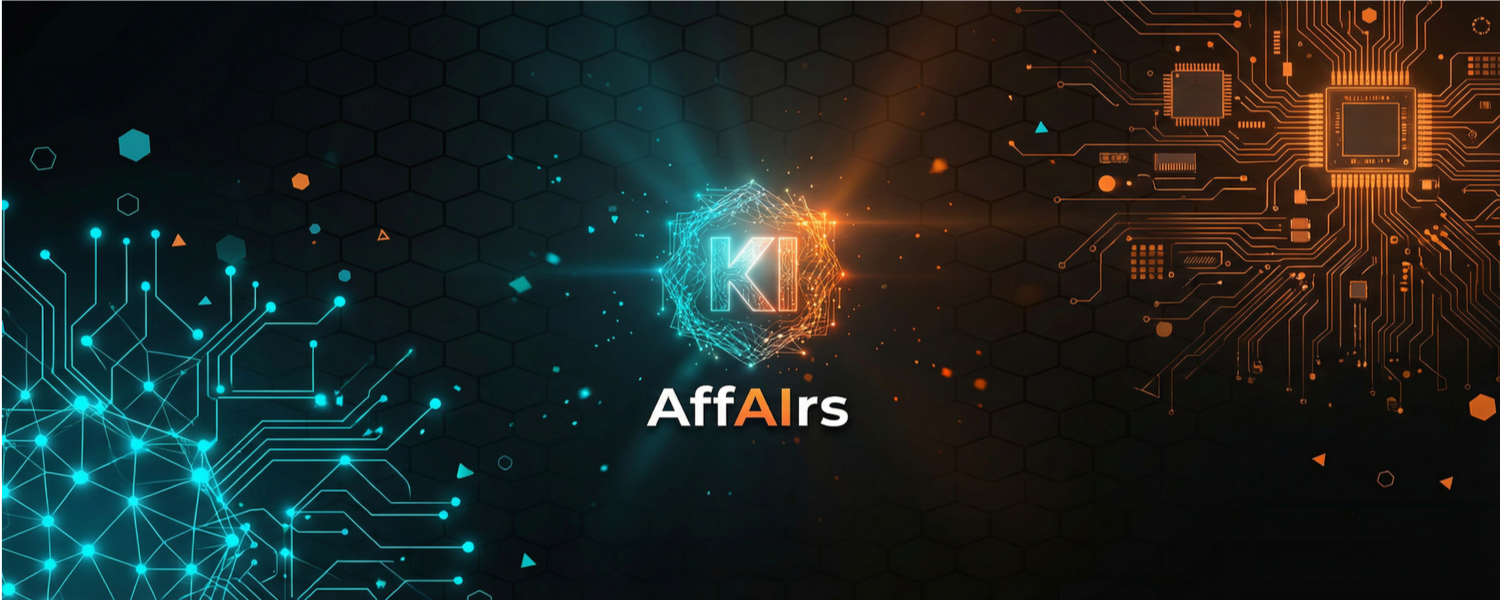
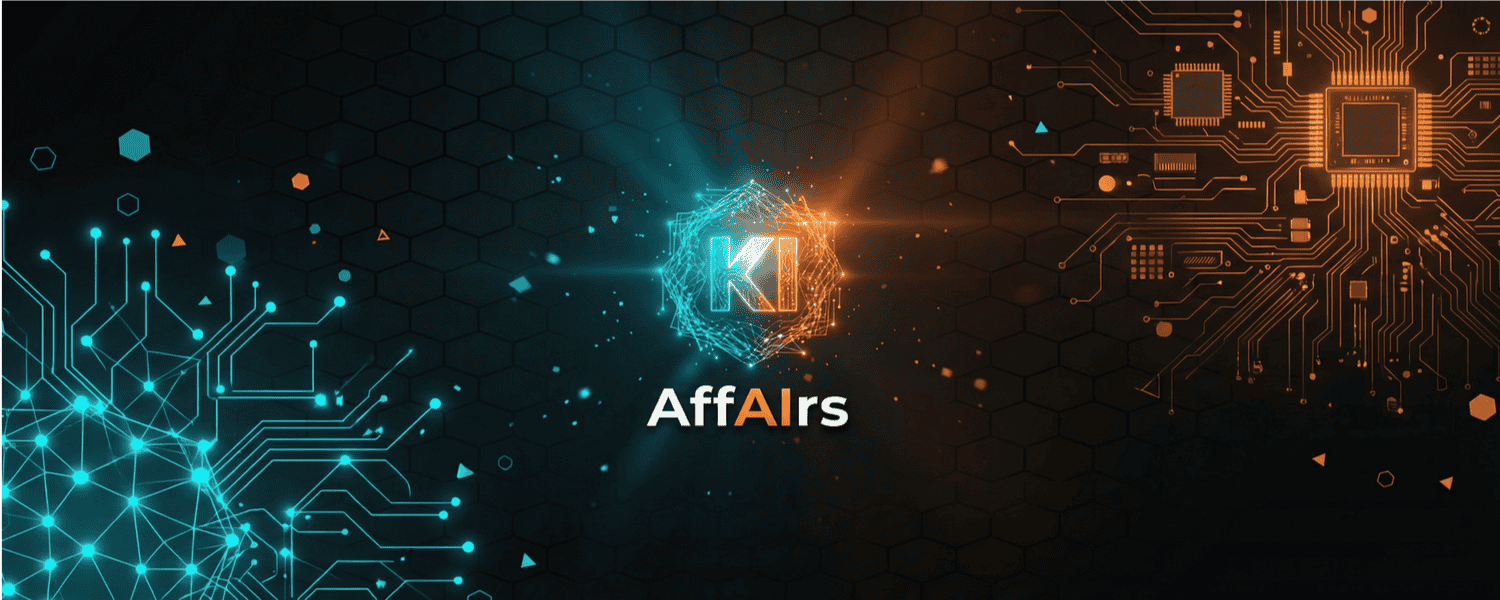
fix: Review-Findings — Kontaktlink, Description-Limit, Politur
- Kontaktlinks auf https://www.affairs-consulting.de (Apex liefert HTTP 421)
- SKILL.md-Description auf 909 Zeichen gekürzt (Limit 1024), Inhalte stehen im Body
- metadata-Block (author/version/license) wie im Schwester-Repo ergänzt
- NOTICE in die Repo-Inhaltstabelle aufgenommen (DE+EN)
- Banner von 1,6 MB auf 226 KB komprimiert (pngquant, visuell identisch)

diff --git a/SKILL.md b/SKILL.md
@@ -1,6 +1,10 @@
 ---
 name: human-oversight
-description: "Human Oversight — ein praxistaugliches Framework gegen kognitive Faulheit UND kognitive Überambition bei der Arbeit mit KI. Nutze dieses Framework, wenn: (1) ein neues Projekt, eine neue Aufgabe oder ein neues Feature startet und Priorisierung/Fokus nötig ist, (2) komplexe Analysen, Entscheidungen oder Dokumente entstehen, bei denen der Mensch Kontrolle und Verständnis behalten muss, (3) der User sagt 'Human Oversight', 'menschliche Aufsicht', 'mit Zwischenschritten', 'erklär mir den Weg', 'nicht einfach das Ergebnis', 'Quality Check', 'RALF Loop', 'Triage', 'Priorisierung'. Auch automatisch aktivieren, wenn der User mehrere Projekte gleichzeitig anspricht oder offensichtlich überambitioniert plant. Das Framework hat drei Modi: Planen & Priorisieren (Triage vor dem Start), Transparente Schritte (nachvollziehbare Zwischenschritte mit Verständnisfragen), Quality Gate (Endprüfung mit RALF-Loop). Ziel: Der Mensch behält die Aufsicht — versteht jeden Schritt, kann jederzeit eingreifen, trägt die Verantwortung. Basiert auf Forschung zu Cognitive Offloading, Automation Bias und EU AI Act Artikel 14 (Human Oversight). Einsetzbar in direkter Konversation, in agentischen Systemen (n8n, CrewAI und ähnliche) und als Workshop-Methodik."
+description: "Human Oversight — praxistaugliches Framework gegen kognitive Faulheit UND kognitive Überambition bei der Arbeit mit KI. Nutze dieses Framework, wenn: (1) ein neues Projekt, eine neue Aufgabe oder ein neues Feature startet und Priorisierung/Fokus nötig ist, (2) komplexe Analysen, Entscheidungen oder Dokumente entstehen, bei denen der Mensch Kontrolle und Verständnis behalten muss, (3) der User sagt 'Human Oversight', 'menschliche Aufsicht', 'mit Zwischenschritten', 'erklär mir den Weg', 'nicht einfach das Ergebnis', 'Quality Check', 'RALF Loop', 'Triage', 'Priorisierung'. Auch automatisch aktivieren, wenn der User mehrere Projekte gleichzeitig anspricht oder offensichtlich überambitioniert plant. Drei Modi: Planen & Priorisieren, Transparente Schritte, Quality Gate (Details im Skill). Ziel: Der Mensch behält die Aufsicht — versteht jeden Schritt, kann jederzeit eingreifen, trägt die Verantwortung."
+metadata:
+  author: Claus Zeißler
+  version: 1.0.0
+  license: CC BY 4.0
 ---
 
 # Human Oversight
@@ -291,4 +295,4 @@ Es ist KEIN Ersatz für eine rechtliche Bewertung. Es ist ein Framework, das hil
 **Version:** 1.0
 **Autor:** Claus Zeißler
 **Lizenz:** CC BY 4.0 (Namensnennung) — siehe `LICENSE`
-**Kontakt:** affairs-consulting.de
+**Kontakt:** www.affairs-consulting.de

diff --git a/README.en.md b/README.en.md
@@ -104,6 +104,7 @@ You need **no technical background.** If you use AI and occasionally think "wait
 | [`README.en.md`](README.en.md) | This introduction (English) |
 | [`SKILL.md`](SKILL.md) | The full framework in detail (also usable as a Claude Code skill) |
 | [`LICENSE`](LICENSE) | License (CC BY 4.0) |
+| [`NOTICE`](NOTICE) | Attribution notice — carries the CC BY 4.0 attribution requirement |
 
 ---
 
@@ -111,4 +112,4 @@ You need **no technical background.** If you use AI and occasionally think "wait
 
 © Claus Zeißler. Licensed under **[Creative Commons CC BY 4.0](LICENSE)** — you may freely use, share and adapt the framework as long as you credit the author.
 
-More: [affairs-consulting.de](https://affairs-consulting.de)
+More: [affairs-consulting.de](https://www.affairs-consulting.de)

diff --git a/README.md b/README.md
@@ -104,6 +104,7 @@ Du brauchst **kein technisches Vorwissen.** Wenn du KI nutzt und gelegentlich de
 | [`README.en.md`](README.en.md) | English version |
 | [`SKILL.md`](SKILL.md) | Das vollständige Framework im Detail (auch als Claude-Code-Skill nutzbar) |
 | [`LICENSE`](LICENSE) | Lizenz (CC BY 4.0) |
+| [`NOTICE`](NOTICE) | Attributions-Hinweis — trägt die Namensnennungs-Anforderung der CC BY 4.0 |
 
 ---
 
@@ -111,4 +112,4 @@ Du brauchst **kein technisches Vorwissen.** Wenn du KI nutzt und gelegentlich de
 
 © Claus Zeißler. Lizenziert unter **[Creative Commons CC BY 4.0](LICENSE)** — du darfst das Framework frei nutzen, weitergeben und anpassen, solange du den Urheber nennst.
 
-Mehr: [affairs-consulting.de](https://affairs-consulting.de)
+Mehr: [affairs-consulting.de](https://www.affairs-consulting.de)